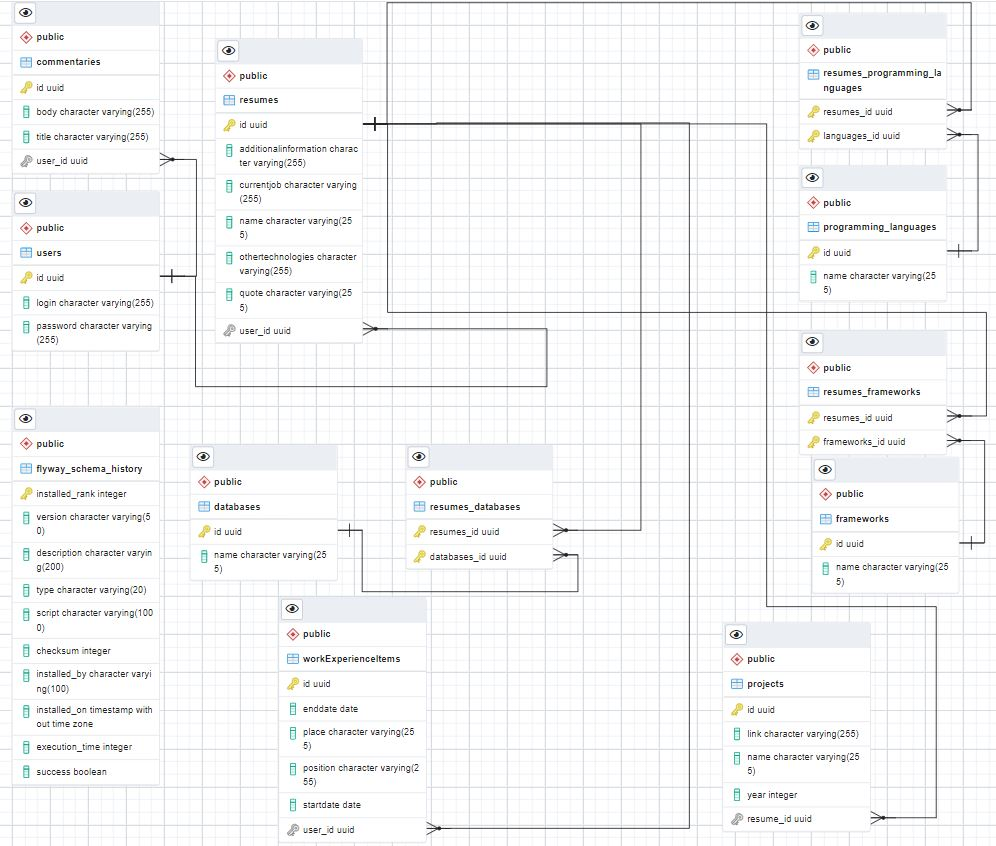
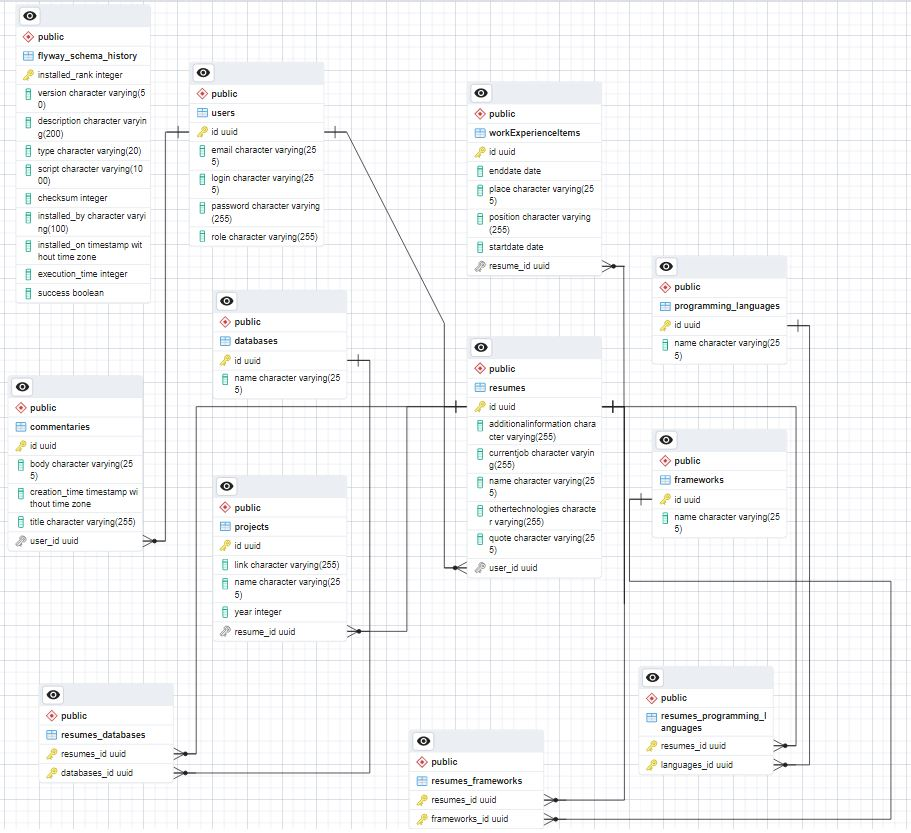
chore: update README
- Change project description
- Add new ERD

Changed region(s): [[0.0, 0.0, 1.0, 0.9988], [0.5225, 0.8115, 0.5532, 0.8427]]

diff --git a/README.md b/README.md
@@ -1,25 +1,33 @@
 # CV backend
 
-Бекенд для веб приложения, которое позволяет создавать
-резюме по шаблону, оставлять и просматривать комментариио компаниях и
-о работе людей. На основании этого можно закрывать требуемые
-вакансии в компании.
+Web application backend that allows to create a resume using a template,
+add and get commentaries about worker's experience and companies. Using 
+this information HR of a company may find a wanted candidate for a position
+in the company or a job-seeker may find a suitable job.
 
-## ERD
+## Entity relationship diagram
+
 ![DataBase](/dataBase.JPG)
 
-- User - пользователь приложения
-- Resume - информация для составления основной страницы резюме
-- Project - проект пользователя
-- WorkExperienceItem - информация о работе пользователя в течение определённого промежутка времени
-- Commentary - комментарий, оставленный пользователем
-- ProgrammingLanguage - язык программирования, который пользователь может
-указать в своём резюме
-- Framework - фреймворк, который пользователь может
-  указать в своём резюме
-- Database - база данных, которую пользователь может
-  указать в своём резюме
+- User - user of the application
+- Resume - information for main page of resume
+- Project - project of a user
+- WorkExperienceItem - information about a user's work during a certain period of time
+- Commentary - commentary of a user
+- ProgrammingLanguage - programming language that user can add to their resume
+- Framework - framework that user can add to their resume
+- Database - database that user can add to their resume
 
-Изменять таблицы для языков программирования, фреймворков и баз данных
-могут строго только админы системы. Пользователям предоставляется фиксированная
-выборка в момент заполнения резюме.
+Only admins are allowed to change tables in the database that contain programming
+languages, frameworks and databases. Users can only get fixed list of elements when they
+are filling resume form.
+
+## How to start the application
+
+### _Gradle(in dev mode):_
+
+`./gradlew web:quarkusDev`
+
+### _Docker:_
+
+`docker-compose -f docker/docker-compose.yaml up`
